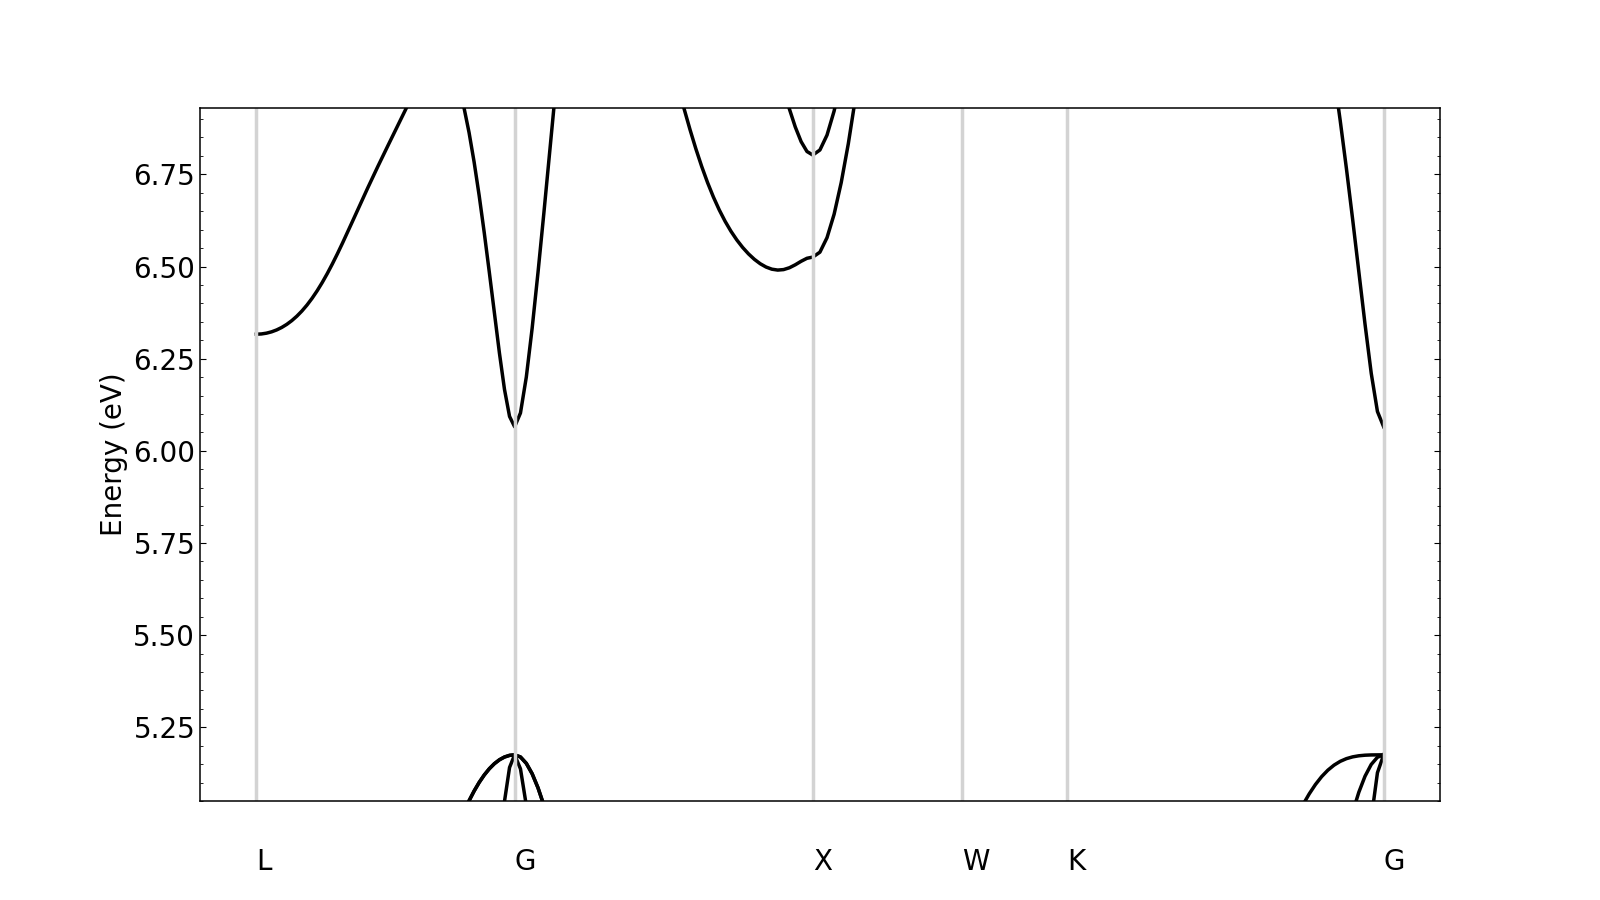
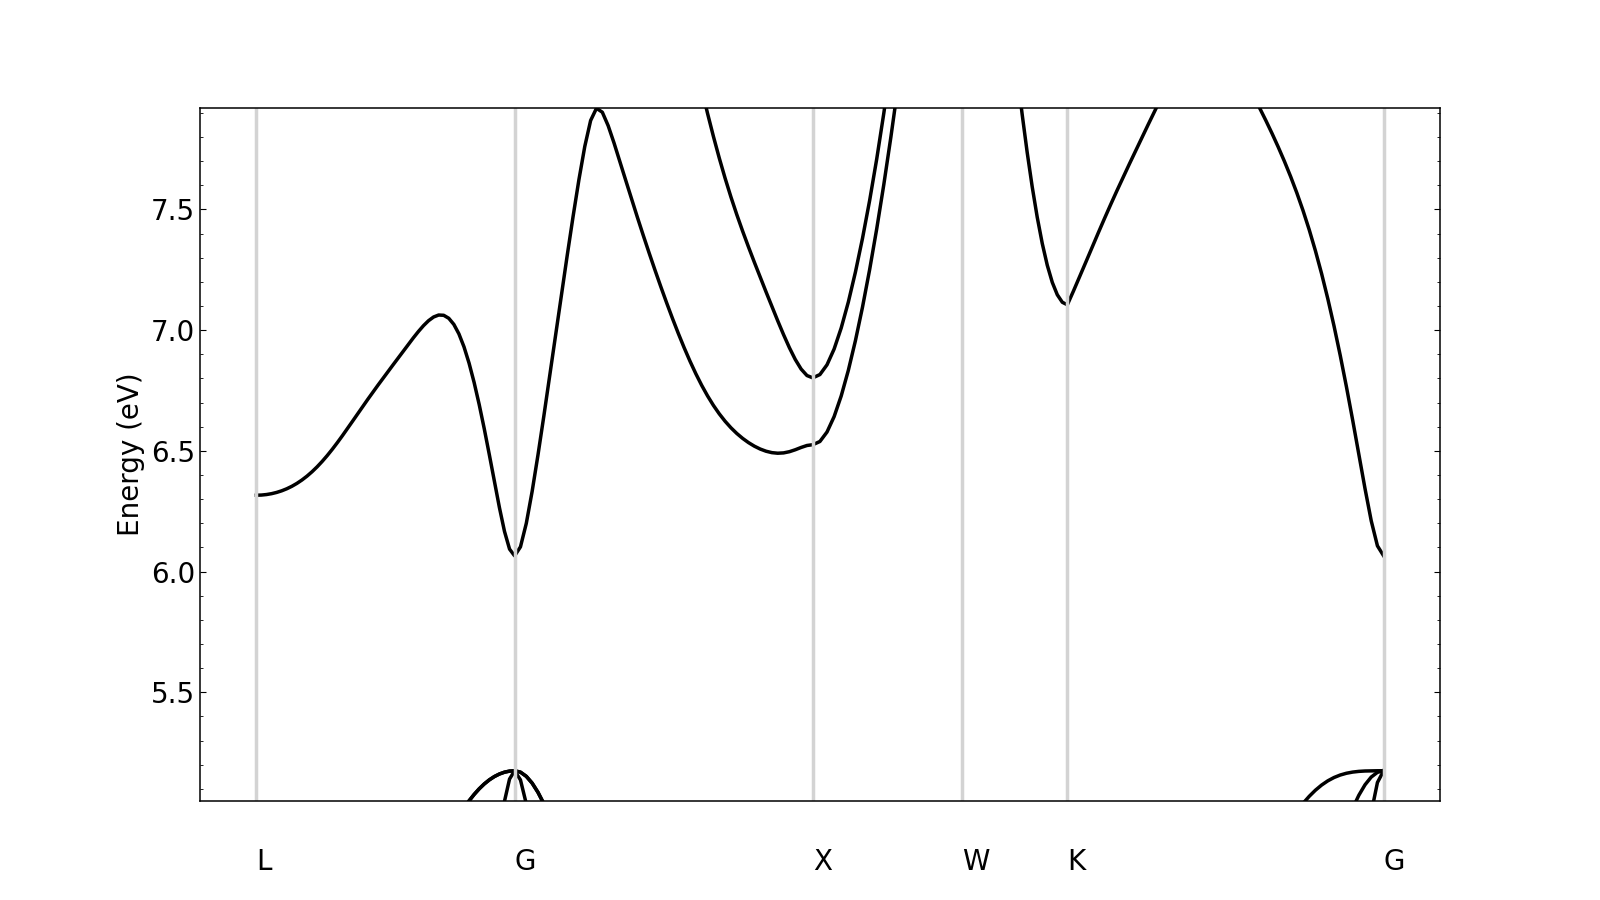
Updated zoomed band

diff --git a/Hands-on4/perturbo/bands/plot_bands.py b/Hands-on4/perturbo/bands/plot_bands.py
@@ -16,7 +16,7 @@ plt.savefig('gaas_bands.png')
 # Plot zoomed in band diagram
 fig, ax2 = plt.subplots()
 
-gaas_bands.plot_bands(ax2, energy_window=[5, 7.5])
+gaas_bands.plot_bands(ax2, energy_window=[5, 8])
 
 plt.savefig('gaas_bands_zoom.png')
 # plt.show()
